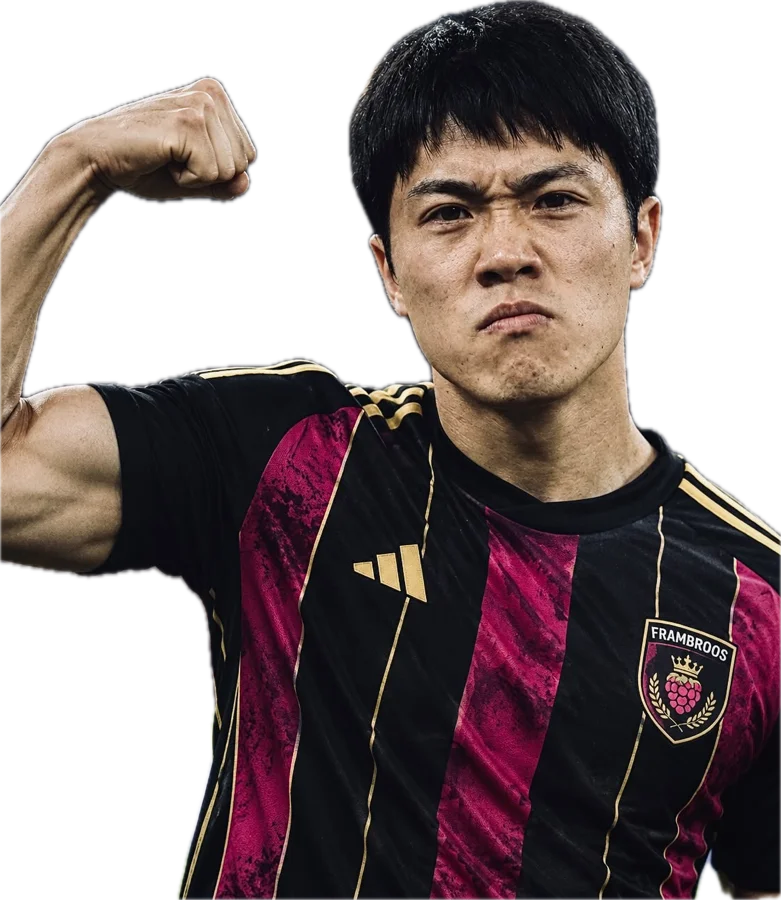
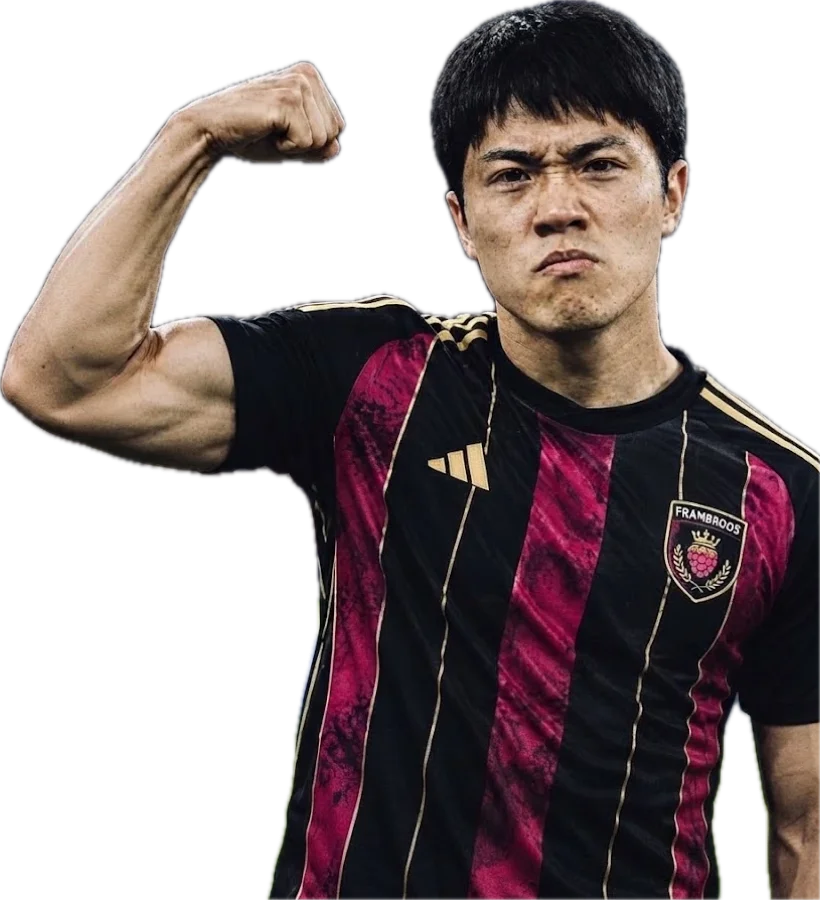
Wheatley: eigen portret en vormfoto met de hele arm; rating iets lager onder de boog; vormlabel blijft binnen de rand op kleine kaarten; overal de naam van de pro in plaats van de accountnaam

diff --git a/public/sessies.js b/public/sessies.js
@@ -37,7 +37,7 @@ function renderCards() {
         </span>
       </span>
       <span class="scard-line" aria-label="Uitslagen op volgorde">${ms.map(m => `<span class="tl-item" title="${esc(m.opponent.name)}"><span class="tl-dot ${m.result}">${letter(m.result)}</span>${kitShirt(m.opponent.kit, m.opponent.name)}<b>${m.goals}-${m.goalsAgainst}</b></span>`).join('')}</span>
-      ${mvp ? `<span class="scard-mvp"><span class="mvp-avatar">${photo ? `<img src="${photo}" alt="">` : PERSON}</span><span class="mvp-who"><small>Speler van de sessie</small><b>${esc(mvp.n)}</b></span><span class="mvp-stats"><b>${f2(mvp.v)}</b><small>${mvp.g} G · ${mvp.a} A${mvp.mom ? ` · ${mvp.mom}× MOTM` : ''}</small></span></span>` : ''}
+      ${mvp ? `<span class="scard-mvp"><span class="mvp-avatar">${photo ? `<img src="${photo}" alt="">` : PERSON}</span><span class="mvp-who"><small>Speler van de sessie</small><b>${esc(proName(mvp.n))}</b></span><span class="mvp-stats"><b>${f2(mvp.v)}</b><small>${mvp.g} G · ${mvp.a} A${mvp.mom ? ` · ${mvp.mom}× MOTM` : ''}</small></span></span>` : ''}
     </a>`;
   }).join('');
 }
@@ -56,7 +56,7 @@ const QUOTE = {
   toeval: 'Toeval is logisch.',
 };
 function anecdote(ms, sm, prow) {
-  const c = [], nm = n => `<b>${esc(n)}</b>`, res = ms.map(m => m.result), n = ms.length;
+  const c = [], nm = n => `<b>${esc(proName(n))}</b>`, res = ms.map(m => m.result), n = ms.length;
   const pot = i => ['de eerste pot', 'de tweede pot', 'de derde pot', 'de vierde pot', 'de vijfde pot'][i] || `pot ${i + 1}`;
   // Spelersmomenten
   for (const m of ms) for (const p of m.players) if (p.goals >= 3) c.push({ w: 10 + p.goals, text: `${nm(p.name)} schoot er tegen ${esc(m.opponent.name)} in ${numWord(p.goals)} keer in${m.result === 'W' ? '' : ', en toch werd het niets'}.`, q: 'schieten' });
@@ -123,7 +123,7 @@ function render() {
   const own = DATA.snapshot?.skillRating;
   const names = [...new Set(ms.flatMap(m => m.players.map(p => p.name)))];
   $('#s-title').textContent = `${cap(longDate(ms[0].ts))} · ${typeLabel(ms)}`;
-  $('#s-meta').textContent = `${fmtTime(ms[0].ts)} tot ${fmtTime(ms[ms.length - 1].ts)} · ${names.length} spelers: ${names.join(', ')}`;
+  $('#s-meta').textContent = `${fmtTime(ms[0].ts)} tot ${fmtTime(ms[ms.length - 1].ts)} · ${names.length} spelers: ${names.map(proName).join(', ')}`;
 
   const opp = avg(ms.map(m => m.opponent.skillRating).filter(Boolean));
   // Badges: deze avond tegenover normaal (alle andere wedstrijden).
@@ -159,10 +159,10 @@ function render() {
   $('#s-share').onclick = () => shareSession(ms, sm, prow, $('#s-summary').innerText);
   // Top drie als kaarten, de beste vooraan.
   const top = prow.filter(r => r.rH !== null).slice(0, 3);
-  $('#s-podium').innerHTML = top.map((r, i) => `<a class="podium-card p${i + 1}" href="spelers.html#${encodeURIComponent(r.name)}" title="${esc(r.name)}: rating ${f2(r.rH)} deze avond">
+  $('#s-podium').innerHTML = top.map((r, i) => `<a class="podium-card p${i + 1}" href="spelers.html#${encodeURIComponent(r.name)}" title="${esc(proName(r.name))}: rating ${f2(r.rH)} deze avond">
       <span class="podium-rank">${i + 1}</span><span class="fut-mini">${PlayerCard.html(r.name)}</span><span class="podium-rating">${f2(r.rH)}${r.mom ? ' <span class="crown" title="Man of the match">♛</span>' : ''}</span></a>`).join('');
   $('#s-players').innerHTML = `<div class="pcards">${prow.map(r => `<a class="pcard" href="spelers.html#${encodeURIComponent(r.name)}">
-    <div class="pcard-head"><span class="pcard-name">${esc(r.name)}${r.mom ? ' <span class="crown" title="Man of the match">♛</span>' : ''}</span><span class="pcard-rating">${f2(r.rH)}</span></div>
+    <div class="pcard-head"><span class="pcard-name">${esc(proName(r.name))}${r.mom ? ' <span class="crown" title="Man of the match">♛</span>' : ''}</span><span class="pcard-rating">${f2(r.rH)}</span></div>
     <div class="pcard-sub">${r.n} ${r.n === 1 ? 'wedstrijd' : 'wedstrijden'} · normaal ${f2(r.rT)} ${r.d === null ? '' : residCell(r.d)}</div>
     <div class="pcard-stats"><span><b>${r.g}</b> goals</span><span><b>${r.a}</b> assists</span><span><b>${r.mom}</b> MOTM</span></div></a>`).join('')}</div>`;
 }
@@ -199,8 +199,8 @@ async function shareSession(ms, sm, prow, summaryText) {
   // uitblinker en betrokken bij goals
   const best = prow[0], inv = [...prow].sort((a, b) => (b.g + b.a) - (a.g + a.a))[0];
   const box = (bx, label, name, val) => { g.fillStyle = 'rgba(255,255,255,0.06)'; g.beginPath(); g.roundRect(bx, 512, 452, 200, 28); g.fill(); g.fillStyle = accent; font(24, 600); g.fillText(label.toUpperCase(), bx + 32, 562); g.fillStyle = ink; font(40, 700); g.fillText(name, bx + 32, 622); mono(56, 500); g.textAlign = 'right'; g.fillText(val, bx + 420, 688); g.textAlign = 'left'; };
-  if (best) box(72, 'Uitblinker', best.name, f2(best.rH));
-  if (inv) box(556, 'Goals + assists', inv.name, String(inv.g + inv.a));
+  if (best) box(72, 'Uitblinker', proName(best.name), f2(best.rH));
+  if (inv) box(556, 'Goals + assists', proName(inv.name), String(inv.g + inv.a));
   // samenvatting (eerste twee zinnen)
   g.fillStyle = ink; font(32, 400);
   const sentences = summaryText.replace(/\s+/g, ' ').match(/[^.!?]+[.!?]/g) || [summaryText];

diff --git a/public/news.js b/public/news.js
@@ -20,28 +20,28 @@ function articleFor(sess, latest) {
   // Topvorm: wie die avond de blauwe kaart kreeg en hem daarvoor niet had.
   const top = names.map(n => ({ n, now: PlayerCard.tierOf(rowsOf(upTo, n)), was: PlayerCard.tierOf(rowsOf(before, n)) }))
     .filter(x => x.now.tier === 'top' && x.was.tier !== 'top').sort((a, b) => b.now.level - a.now.level);
-  if (top.length) c.push({ tag: 'Topvorm', title: `${joinAnd(top.map(x => esc(x.n)))} in topvorm`,
-    body: `${joinAnd(top.map(x => `${esc(x.n)} ${f2(x.now.level)}`))} gemiddeld over de laatste vijf wedstrijden, met minstens drie zeges.`,
+  if (top.length) c.push({ tag: 'Topvorm', title: `${joinAnd(top.map(x => esc(proName(x.n))))} in topvorm`,
+    body: `${joinAnd(top.map(x => `${esc(proName(x.n))} ${f2(x.now.level)}`))} gemiddeld over de laatste vijf wedstrijden, met minstens drie zeges.`,
     visual: latest ? `<div class="news-cards">${top.slice(0, 3).map(x => `<span class="fut-mini">${PlayerCard.html(x.n)}</span>`).join('')}</div>` : bigNum(f1(top[0].now.level), 'gemiddeld') });
 
   // Uitschieter: de hoogste rating van de avond, vanaf 9,0.
   const peak = perfs.filter(x => x.p.rating !== null).sort((a, b) => b.p.rating - a.p.rating)[0];
   if (peak && peak.p.rating >= 9) {
     const { m, p } = peak;
-    c.push({ tag: 'Uitschieter', title: `${f1(p.rating)} voor ${esc(p.name)} tegen ${esc(m.opponent.name)}`,
+    c.push({ tag: 'Uitschieter', title: `${f1(p.rating)} voor ${esc(proName(p.name))} tegen ${esc(m.opponent.name)}`,
       body: `${capFirst(joinAnd([p.goals ? plural(p.goals, 'goal', 'goals') : '', p.assists ? plural(p.assists, 'assist', 'assists') : ''].filter(Boolean))) || 'Zonder goal of assist'}${p.mom ? ', man of the match' : ''}: de hoogste rating van de avond.`,
       visual: bigNum(f1(p.rating)) });
   }
 
   // Hattrick: drie of meer goals van één speler in één wedstrijd.
   const hat = perfs.filter(x => (x.p.goals || 0) >= 3).sort((a, b) => b.p.goals - a.p.goals)[0];
-  if (hat) c.push({ tag: 'Hattrick', title: hat.p.goals === 3 ? `Hattrick voor ${esc(hat.p.name)}` : `${capFirst(numWord(hat.p.goals))} goals voor ${esc(hat.p.name)}`,
+  if (hat) c.push({ tag: 'Hattrick', title: hat.p.goals === 3 ? `Hattrick voor ${esc(proName(hat.p.name))}` : `${capFirst(numWord(hat.p.goals))} goals voor ${esc(proName(hat.p.name))}`,
     body: `${hat.p.goals} keer raak tegen ${esc(hat.m.opponent.name)}, eindstand ${hat.m.goals}–${hat.m.goalsAgainst}.`, visual: bigNum(hat.p.goals, 'goals') });
 
   // Grote zege: winst met vier of meer verschil.
   const big = night.filter(m => m.goalDiff >= 4).sort((a, b) => b.goalDiff - a.goalDiff || b.goals - a.goals)[0];
   if (big) {
-    const scorers = big.players.filter(p => p.goals).sort((a, b) => b.goals - a.goals).map(p => `${esc(p.name)}${p.goals > 1 ? ` (${p.goals})` : ''}`);
+    const scorers = big.players.filter(p => p.goals).sort((a, b) => b.goals - a.goals).map(p => `${esc(proName(p.name))}${p.goals > 1 ? ` (${p.goals})` : ''}`);
     c.push({ tag: 'Grote zege', title: `${big.goals}–${big.goalsAgainst} tegen ${esc(big.opponent.name)}`,
       body: scorers.length ? `Doelpunten: ${joinAnd(scorers)}.` : 'De grootste zege van de avond.', visual: bigNum(`${big.goals}–${big.goalsAgainst}`) });
   }
@@ -51,7 +51,7 @@ function articleFor(sess, latest) {
     const own = rowsOf(upTo, n);
     let k = 0; while (k < own.length && (own[own.length - 1 - k].p.goals || 0) > 0) k++;
     if (k >= 3 && night.includes(own.at(-1).m)) {
-      c.push({ tag: 'Scoort op rij', title: `${esc(n)} scoort ${numWord(k)} keer op rij`,
+      c.push({ tag: 'Scoort op rij', title: `${esc(proName(n))} scoort ${numWord(k)} keer op rij`,
         body: `In elk van de laatste ${k} eigen wedstrijden minstens één goal, samen ${own.slice(-k).reduce((a, x) => a + x.p.goals, 0)}.`, visual: bigNum(`${k}×`) });
       break;
     }
@@ -64,7 +64,7 @@ function articleFor(sess, latest) {
   // Een avond met minder dan één punt per wedstrijd is zelf het nieuws; een uitblinker verandert dat niet.
   if (c.length && s.ppg >= 1) return { ...base, ...c[0], body: `${c[0].body} ${nightLine}` };
   return { ...base, tag: 'Speelavond', title: capFirst(joinAnd(parts)), visual: formDots(night, { links: false }),
-    body: `${plural(night.length, 'wedstrijd', 'wedstrijden')} op ${weekday}, doelsaldo ${signed(gd, 0)}.${best ? ` Beste speler: ${esc(best.n)} met gemiddeld ${f2(best.v)}.` : ''}` };
+    body: `${plural(night.length, 'wedstrijd', 'wedstrijden')} op ${weekday}, doelsaldo ${signed(gd, 0)}.${best ? ` Beste speler: ${esc(proName(best.n))} met gemiddeld ${f2(best.v)}.` : ''}` };
 }
 
 // Alle artikelen, nieuwste eerst: één per sessie van minstens twee wedstrijden.

diff --git a/public/common.js b/public/common.js
@@ -9,6 +9,8 @@ const fmtDateTime = ts => new Date(ts * 1000).toLocaleString('nl-NL', { day: 'nu
 const pct = (num, den) => den ? Math.round(100 * num / den) : null;
 const fmtPct = v => v === null || v === undefined ? '–' : `${v}%`;
 const esc = s => String(s ?? '').replace(/[&<>"]/g, c => ({ '&': '&amp;', '<': '&lt;', '>': '&gt;', '"': '&quot;' }[c]));
+// Naam van de pro (Terry Yaki) voor een accountnaam (Neegek): zo praat de app over spelers. Onbekend: de accountnaam.
+const proName = n => DATA?.members?.find(x => x.name === n)?.proName || n;
 
 
 // ---------- app-shell: zijmenu ----------
@@ -47,7 +49,7 @@ function fillPlayerNav() {
   const nav = $('#player-nav'); if (!nav || !DATA) return;
   const onPlayers = PAGE === 'spelers.html';
   const current = onPlayers ? decodeURIComponent(location.hash.slice(1)) || (DATA.players.includes('Neegek') ? 'Neegek' : DATA.players[0]) : null;
-  nav.innerHTML = DATA.players.map(n => `<a href="spelers.html#${encodeURIComponent(n)}" class="${n === current ? 'active' : ''}"${n === current ? ' aria-current="page"' : ''}>${esc(n)}</a>`).join('');
+  nav.innerHTML = DATA.players.map(n => `<a href="spelers.html#${encodeURIComponent(n)}" class="${n === current ? 'active' : ''}"${n === current ? ' aria-current="page"' : ''}>${esc(proName(n))}</a>`).join('');
 }
 addEventListener('hashchange', () => fillPlayerNav());
 
@@ -241,7 +243,7 @@ const summarize = list => {
   const resid = list.length ? +(list.reduce((a, m) => a + (m.resid ?? 0), 0) / list.length).toFixed(2) : null;
   return { n: list.length, W, D, L, winPct: pct(W, list.length), ppg: list.length ? +((3 * W + D) / list.length).toFixed(2) : null, resid, gf, ga, gfAvg: list.length ? +(gf / list.length).toFixed(1) : null, gaAvg: list.length ? +(ga / list.length).toFixed(1) : null };
 };
-const lineupOf = m => m.players.map(p => p.name).sort().join(' · ');
+const lineupOf = m => m.players.map(p => proName(p.name)).sort().join(' · ');
 const deltaCell = (d, unit = ' pt', digits = 0) => d === null || d === undefined ? '–' : `<span class="${d > 0.005 ? 'delta-pos' : d < -0.005 ? 'delta-neg' : ''}">${d > 0 ? '+' : ''}${(+d).toFixed(digits)}${unit}</span>`;
 const avg = xs => xs.length ? xs.reduce((x, y) => x + y, 0) / xs.length : null;
 const residCell = v => deltaCell(v, '', 2);
@@ -461,7 +463,7 @@ function matchCard(m, { own = null, player = null } = {}) {
   const str = diff === null ? '' : diff >= 250 ? 'veel sterker' : diff >= 100 ? 'sterker' : diff <= -100 ? 'zwakker' : '';
   const p = player ? m.players.find(x => x.name === player) : [...m.players].sort((x, y) => (y.rating ?? 0) - (x.rating ?? 0))[0];
   const foot = !p ? '' : player ? `<b>${p.rating ?? '–'}</b> ${p.goals} G, ${p.assists} A${p.mom ? ' · ★' : ''}`
-    : `<b>${p.rating ?? '–'}</b> ${esc(p.name)}`;
+    : `<b>${p.rating ?? '–'}</b> ${esc(proName(p.name))}`;
   const r = m.resid, badge = r === null || r === undefined ? '' : `<span class="kpi-badge ${r >= 0.5 ? 'up' : r <= -0.5 ? 'down' : ''}" title="Tov verwachting: doelsaldo tegenover wat de tegenstander deed verwachten">${signed(r, 1)}</span>`;
   return `<a class="mcard" href="wedstrijd.html?id=${m.matchId}">
     <span class="mcard-top"><span class="pill ${m.result}">${m.result === 'D' ? 'G' : m.result === 'L' ? 'V' : 'W'}</span><span class="mcard-type">${m.matchType === 'playoffMatch' ? 'playoff' : 'league'} · ${t}${m.winnerByDnf ? ' · opgave' : ''}${m.live ? ' · live' : ''}</span></span>
@@ -478,7 +480,7 @@ function matchRow(m, own) {
   const diff = m.opponent.skillRating && own ? m.opponent.skillRating - own : null;
   const str = diff === null ? '' : diff >= 250 ? 'veel sterker' : diff >= 100 ? 'sterker' : diff <= -100 ? 'zwakker' : 'gelijkwaardig';
   const best = [...m.players].filter(p => p.rating !== null).sort((x, y) => y.rating - x.rating)[0];
-  const bestHtml = best ? `<span class="mr-best-name">${esc(best.name)}${best.mom ? ' <span class="crown" title="Man of the match">♛</span>' : ''}</span><b>${f1(best.rating)}</b>` : '';
+  const bestHtml = best ? `<span class="mr-best-name">${esc(proName(best.name))}${best.mom ? ' <span class="crown" title="Man of the match">♛</span>' : ''}</span><b>${f1(best.rating)}</b>` : '';
   return `<a class="match-row" href="wedstrijd.html?id=${m.matchId}">
     <span class="mr-time">${when}</span>
     <span class="pill ${m.result}">${letter(m.result)}</span>

diff --git a/public/wedstrijd.js b/public/wedstrijd.js
@@ -38,7 +38,7 @@ function matchSummary(m) {
   const best = [...m.players].sort((a, b) => (b.rating ?? 0) - (a.rating ?? 0))[0];
   if (best) {
     const bits = [best.goals ? `${numWord(best.goals)} ${best.goals === 1 ? 'doelpunt' : 'doelpunten'}` : '', best.assists ? `${numWord(best.assists)} ${best.assists === 1 ? 'assist' : 'assists'}` : ''].filter(Boolean);
-    parts.push(`<b>${esc(best.name)}</b> was de beste man${bits.length ? `, met ${joinAnd(bits)}` : ''}${best.mom ? ', en werd man van de wedstrijd' : ''}.`);
+    parts.push(`<b>${esc(proName(best.name))}</b> was de beste man${bits.length ? `, met ${joinAnd(bits)}` : ''}${best.mom ? ', en werd man van de wedstrijd' : ''}.`);
   }
   return parts.join(' ');
 }
@@ -47,7 +47,7 @@ function pitch(players, title, link) {
   const byLine = Object.fromEntries(LINES.map(([k]) => [k, []]));
   for (const p of players) (byLine[p.pos] || byLine.midfielder).push(p);
   const chip = p => {
-    const inner = `<b>${esc(p.name)}</b><small>${esc(archName(p.archetypeId))} · ${p.rating ?? '–'}${p.mom ? ' · ★' : ''}</small>`;
+    const inner = `<b>${esc(link ? proName(p.name) : p.name)}</b><small>${esc(archName(p.archetypeId))} · ${p.rating ?? '–'}${p.mom ? ' · ★' : ''}</small>`;
     return link ? `<a class="pchip" href="spelers.html#${encodeURIComponent(p.name)}">${inner}</a>` : `<div class="pchip">${inner}</div>`;
   };
   const ai = Math.max(0, 11 - players.length);
@@ -80,7 +80,7 @@ function h2h(m) {
 // reconstrueren (docs/coach-logica.md §9a). EA geeft per speler alleen aantallen, niet bij welke goal.
 function goalChain(m) {
   if (m.goals !== 1) return '';
-  const who = f => m.players.filter(f).map(p => `<b>${esc(p.name)}</b>`);
+  const who = f => m.players.filter(f).map(p => `<b>${esc(proName(p.name))}</b>`);
   const scorer = who(p => p.goals > 0), assist = who(p => p.assists > 0), second = who(p => p.ev?.second_assists > 0);
   if (scorer.length > 1 || assist.length > 1 || second.length > 1) return '';
   const steps = [];
@@ -95,7 +95,7 @@ function goalChain(m) {
 function playerTable(el, players, link) {
   const rows = [...players].sort((a, b) => (b.rating ?? 0) - (a.rating ?? 0));
   if (!rows.length) { el.innerHTML = '<p class="empty">Geen menselijke spelers.</p>'; return; }
-  const name = { label: 'Speler', render: p => link ? `<a href="spelers.html#${encodeURIComponent(p.name)}">${esc(p.name)}</a>${p.mom ? ' ★' : ''}` : `${esc(p.name)}${p.mom ? ' ★' : ''}` };
+  const name = { label: 'Speler', render: p => link ? `<a href="spelers.html#${encodeURIComponent(p.name)}">${esc(proName(p.name))}</a>${p.mom ? ' ★' : ''}` : `${esc(p.name)}${p.mom ? ' ★' : ''}` };
   const compact = [name,
     { label: 'Rating', num: true, render: p => p.rating ?? '–' }, { label: 'Index', num: true, render: p => p.fi === null ? '–' : `<span title="Frambroos-index: 50 is gemiddeld voor de rol${fiMatchLabel(p.fi) ? ` · ${fiMatchLabel(p.fi)}` : ''}">${fiFmt(p.fi)}</span>` },
     { label: 'Goals', num: true, key: 'goals' }, { label: 'Assists', num: true, key: 'assists' },
@@ -105,7 +105,7 @@ function playerTable(el, players, link) {
   el.innerHTML = '<div class="pt-compact"></div><details class="all-stats"><summary>Alle cijfers</summary><div class="pt-full"></div></details>';
   table(el.querySelector('.pt-compact'), compact, rows);
   table(el.querySelector('.pt-full'), [
-    { label: 'Speler', render: p => link ? `<a href="spelers.html#${encodeURIComponent(p.name)}">${esc(p.name)}</a>${p.mom ? ' ★' : ''}` : `${esc(p.name)}${p.mom ? ' ★' : ''}` },
+    { label: 'Speler', render: p => link ? `<a href="spelers.html#${encodeURIComponent(p.name)}">${esc(proName(p.name))}</a>${p.mom ? ' ★' : ''}` : `${esc(p.name)}${p.mom ? ' ★' : ''}` },
     { label: 'Positie', render: p => POS_NL[p.pos] || p.pos }, { label: 'Build', render: p => esc(archName(p.archetypeId)) },
     { label: 'Rating', num: true, render: p => p.rating ?? '–' }, { label: 'Goals', num: true, key: 'goals' }, { label: 'Assists', num: true, key: 'assists' }, { label: '2e assist', num: true, render: p => p.ev ? (p.ev.second_assists || 0) : '–' },
     { label: 'Schoten', num: true, key: 'shots' }, { label: 'Passes', num: true, render: p => `${p.passesMade}/${p.passAttempts}` },

diff --git a/public/spelers.js b/public/spelers.js
@@ -87,7 +87,7 @@ function playerSummary(name, rows, career, sw) {
   };
   const s = sw.sRaw.filter(x => GOOD[x.key]), w = sw.wRaw.filter(x => BAD[x.key]);
   const parts = [];
-  const nm = `<b>${esc(name)}</b>`;
+  const nm = `<b>${esc(proName(name))}</b>`;
   // 1. Rol en kenmerk
   const traits = s.slice(0, 2).map(x => GOOD[x.key]).filter((v, i, a) => a.indexOf(v) === i);
   const flaws = w.slice(0, 2).map(x => BAD[x.key]).filter((v, i, a) => a.indexOf(v) === i);
@@ -143,7 +143,7 @@ function renderSessionsTab(name) {
   $('#ps-title').textContent = `${name} per sessie`;
   const best = [...items].filter(i => i.d !== null).sort((a, b) => b.d - a.d)[0], worst = [...items].filter(i => i.d !== null).sort((a, b) => a.d - b.d)[0];
   const trend = items.length >= 3 ? items[items.length - 1].r - avg(items.slice(0, -1).map(i => i.r)) : null;
-  const parts = [`<b>${esc(name)}</b> speelde ${numWord(items.length)} ${items.length === 1 ? 'sessie' : 'sessies'} mee.`];
+  const parts = [`<b>${esc(proName(name))}</b> speelde ${numWord(items.length)} ${items.length === 1 ? 'sessie' : 'sessies'} mee.`];
   if (best && best !== worst && best.d >= 0.3) parts.push(`De beste avond was ${pDay(best.s.matches[0].ts).toLowerCase()}${best.g + best.a ? `, met ${joinAnd([best.g ? `${numWord(best.g)} ${best.g === 1 ? 'goal' : 'goals'}` : '', best.a ? `${numWord(best.a)} ${best.a === 1 ? 'assist' : 'assists'}` : ''].filter(Boolean))}` : ''}.`);
   if (worst && best !== worst && worst.d <= -0.3) parts.push(`De minste was ${pDay(worst.s.matches[0].ts).toLowerCase()}.`);
   if (trend !== null) parts.push(Math.abs(trend) < 0.3 ? 'De laatste sessie lag op het normale niveau.' : trend > 0 ? 'De laatste sessie was beter dan de avonden daarvoor.' : 'De laatste sessie was minder dan de avonden daarvoor.');
@@ -170,7 +170,7 @@ function renderLastTab(name) {
   const notes = others.length >= 3 ? notesFor([last], others) : [];
   const bits = [p.goals ? `${numWord(p.goals)} ${p.goals === 1 ? 'doelpunt' : 'doelpunten'}` : '', p.assists ? `${numWord(p.assists)} ${p.assists === 1 ? 'assist' : 'assists'}` : ''].filter(Boolean);
   const level = d === null ? '' : d >= 0.5 ? 'een van de betere wedstrijden' : d <= -0.5 ? 'een mindere wedstrijd' : 'een wedstrijd op het normale niveau';
-  const parts = [`In de laatste wedstrijd, tegen ${esc(m.opponent.name)}, speelde <b>${esc(name)}</b> ${level}${bits.length ? `, met ${joinAnd(bits)}` : ''}${p.mom ? ', en was man van de wedstrijd' : ''}.`];
+  const parts = [`In de laatste wedstrijd, tegen ${esc(m.opponent.name)}, speelde <b>${esc(proName(name))}</b> ${level}${bits.length ? `, met ${joinAnd(bits)}` : ''}${p.mom ? ', en was man van de wedstrijd' : ''}.`];
   const good = notes.filter(n => n.better).slice(0, 2).map(n => n.text), bad = notes.filter(n => n.better === false).slice(0, 2).map(n => n.text);
   if (good.length && bad.length) parts.push(`Opvallend: ${joinAnd(good)} dan normaal, maar ook ${joinAnd(bad)}.`);
   else if (good.length) parts.push(`Opvallend: ${joinAnd(good)} dan normaal.`);
@@ -219,7 +219,7 @@ function renderPlayer() {
   const ms = filtered(), players = DATA.players;
   if (!selected || !players.includes(selected)) selected = players.includes('Neegek') ? 'Neegek' : players[0];
   location.hash = encodeURIComponent(selected);
-  $('#chips').innerHTML = players.map(p => `<button type="button" class="chip ${p === selected ? 'active' : ''}" data-p="${esc(p)}">${esc(p)}</button>`).join('');
+  $('#chips').innerHTML = players.map(p => `<button type="button" class="chip ${p === selected ? 'active' : ''}" data-p="${esc(p)}">${esc(proName(p))}</button>`).join('');
   for (const b of $('#chips').querySelectorAll('.chip')) b.addEventListener('click', () => { selected = b.dataset.p; renderPlayer(); });
 
   const rows = rowsFor(ms, selected), career = DATA.members.find(x => x.name === selected);
@@ -265,7 +265,7 @@ function renderPlayer() {
   ].join('') : '';
   renderContext(selected, ms);
   window.PlayerCard.render(selected);
-  document.title = `${selected} · Frambroos Coach`;
+  document.title = `${proName(selected)} · Frambroos Coach`;
   renderSessionsTab(selected);
   renderLastTab(selected);
   window.BuildTab.show(selected);

diff --git a/public/clubhouse.js b/public/clubhouse.js
@@ -190,7 +190,7 @@ const rankRows = (R, totals) => totals.filter(t => t.n >= 3).map(t => ({ t, v: R
 function renderRanking(totals) {
   $('#rank-cards').innerHTML = RANKS.map(R => { const rows = rankRows(R, totals); return `<button type="button" class="rank-card" data-key="${R.key}" aria-haspopup="dialog">
       <span class="rank-card-label">${R.label}<span class="rank-more" aria-hidden="true">i</span></span>
-      <ol>${rows.map((x, i) => `<li><span>${i + 1}</span><span>${esc(x.t.name)}</span><b>${R.main(x.t)}</b></li>`).join('') || '<li class="empty">Nog te weinig wedstrijden.</li>'}</ol></button>`; }).join('');
+      <ol>${rows.map((x, i) => `<li><span>${i + 1}</span><span>${esc(proName(x.t.name))}</span><b>${R.main(x.t)}</b></li>`).join('') || '<li class="empty">Nog te weinig wedstrijden.</li>'}</ol></button>`; }).join('');
   for (const b of $('#rank-cards').querySelectorAll('.rank-card')) b.addEventListener('click', () => openRank(RANKS.find(R => R.key === b.dataset.key), totals));
 }
 
@@ -200,7 +200,7 @@ function openRank(R, totals) {
     <h3>Waar het op gebaseerd is</h3><p>${R.about}</p>
     <h3>Wie meetelt</h3><p>${R.who} ${BASE}</p>
     <h3>De hele lijst</h3>
-    <ol class="rd-list">${rows.map((x, i) => `<li><span>${i + 1}</span><span>${esc(x.t.name)}</span><b>${R.main(x.t)}</b><small>${esc(R.sub(x.t))}</small></li>`).join('') || '<li class="empty">Nog te weinig wedstrijden.</li>'}</ol>`;
+    <ol class="rd-list">${rows.map((x, i) => `<li><span>${i + 1}</span><span>${esc(proName(x.t.name))}</span><b>${R.main(x.t)}</b><small>${esc(R.sub(x.t))}</small></li>`).join('') || '<li class="empty">Nog te weinig wedstrijden.</li>'}</ol>`;
   d.showModal();
 }
 
@@ -220,7 +220,7 @@ function render() {
   const members = DATA.members.map(m => ({ m, t: PlayerCard.tier(m.name) }))
     .sort((a, b) => PlayerCard.TIER_RANK[b.t.tier] - PlayerCard.TIER_RANK[a.t.tier] || (b.t.level ?? 0) - (a.t.level ?? 0) || (b.m.gamesPlayed || 0) - (a.m.gamesPlayed || 0));
   $('#members').innerHTML = members.map(({ m }) => `<a class="member" href="spelers.html#${encodeURIComponent(m.name)}">
-      <span class="fut-mini">${PlayerCard.html(m.name)}</span><span class="member-tag">${esc(m.name)}</span></a>`).join('');
+      <span class="fut-mini">${PlayerCard.html(m.name)}</span><span class="member-tag">${esc(proName(m.name))}</span></a>`).join('');
 }
 
 // Uitlegscherm van een ranglijst: sluiten met de knop, Esc of een tik naast het scherm.

diff --git a/public/style.css b/public/style.css
@@ -254,7 +254,7 @@ td.split small, .split small { color: var(--muted); }
 .fut-tier { justify-self: center; margin-top: 12px; font-size: 10px; font-weight: 800; letter-spacing: 0.22em; text-transform: uppercase; padding: 3px 10px; border-radius: 999px; border: 1px solid var(--t-accent); color: var(--t-accent); }
 /* Bovenste helft: overall, positie en logo links, foto rechts. Onderste helft: naam en cijfers in twee kolommen. */
 .fut-top { display: grid; grid-template-columns: 64px 1fr; min-height: 0; }
-.fut-ovr { display: grid; justify-items: center; align-content: start; gap: 2px; padding-top: 6px; }
+.fut-ovr { display: grid; justify-items: center; align-content: start; gap: 2px; padding-top: 18px; } /* de boog bovenin loopt links lager; de rating moet eronder blijven */
 .fut-ovr b { font-size: 40px; font-weight: 800; line-height: 1; letter-spacing: -0.04em; }
 .fut-archicon { display: grid; place-items: center; width: 34px; height: 34px; color: var(--t-ink); margin-top: 4px; }
 .fut-archicon .arch-icon { width: 32px; height: 32px; }
@@ -626,11 +626,11 @@ button.rank-card:hover .rank-more { color: var(--brand-text); border-color: var(
 /* Kleine kaart (ledenrij, top drie van een sessie): dezelfde kaart geschaald met --s; cijfers en labels iets groter. */
 .fut-mini { display: block; width: calc(300px * var(--s, 0.56)); height: calc(430px * var(--s, 0.56)); }
 .fut-mini .fut { transform: scale(var(--s, 0.56)); transform-origin: top left; transition: transform .15s ease; }
-.fut-mini .fut-name { font-size: 27px; }
+.fut-mini .fut-name { font-size: 26px; }
 .fut-mini .fut-name.long { font-size: 22px; }
-.fut-mini .fut-col b { font-size: 22px; }
+.fut-mini .fut-col b { font-size: 20px; }
 .fut-mini .fut-col span { font-size: 15px; letter-spacing: 0.04em; }
-.fut-mini .fut-tier { font-size: 13px; }
+.fut-mini .fut-tier { font-size: 12px; margin-top: 6px; padding: 2px 9px; }
 .member:hover .fut { transform: scale(var(--s, 0.56)) translateY(-6px); }
 /* Top drie van een sessie: waaier, de beste vooraan. */
 .podium { position: relative; --s: 0.5; --step: 112px; height: calc(430px * var(--s) + 52px); width: calc(300px * var(--s) + 2 * var(--step)); max-width: 100%; }

diff --git a/public/builds.js b/public/builds.js
@@ -436,8 +436,8 @@ function renderAdvice() {
   const ctx = ballContext(res, prof);
   const riskStyle = ctx.risk ? 'speelt met veel risico aan de bal' : ctx.key === 'rustpunt' || ctx.key === 'opZeker' ? 'speelt veilig en houdt de bal goed in de ploeg' : rel(res.fwdShare) >= 0.1 ? 'zoekt vaak de pass vooruit' : 'speelt een gebalanceerde rol';
   const isLast = mainBuild === lastArchetype(name);
-  parts.push(isLast ? `<b>${esc(name)}</b> speelt nu als ${archName(mainBuild)}, met als taak ${prof.task}.` : `Dit advies bekijkt <b>${esc(name)}</b> als ${archName(mainBuild)}, niet de laatst gespeelde build; de taak is dan ${prof.task}.`);
-  parts.push(`${esc(name)} ${riskStyle}.`);
+  parts.push(isLast ? `<b>${esc(proName(name))}</b> speelt nu als ${archName(mainBuild)}, met als taak ${prof.task}.` : `Dit advies bekijkt <b>${esc(proName(name))}</b> als ${archName(mainBuild)}, niet de laatst gespeelde build; de taak is dan ${prof.task}.`);
+  parts.push(`${esc(proName(name))} ${riskStyle}.`);
   if (T.length) parts.push(`De grootste winst zit in ${joinAnd(T.slice(0, 2).map(t => t.short))}${T[0].means[0].includes('betaalt zich') || T[0].means[0].includes('afweging') ? ', al is een deel daarvan de prijs van een bewuste speelstijl' : ''}.`);
   if (strengths.length) parts.push(`Om op te bouwen: ${joinAnd(strengths.slice(0, 2).map(x => x[0].toLowerCase()))}.`);
   if (behaviour.length) parts.push(`Zonder extra punten valt er winst te halen in het positiespel: ${behaviour[0].title.toLowerCase()}.`);

diff --git a/CLAUDE.md b/CLAUDE.md
@@ -69,7 +69,9 @@ alleen in Cloudflare.
   zijn meet EA niet; "geen goede optie" is de benadering en heet *lastige balmomenten*.
 - Advies en samenvattingen: volg coach-logica §1, §8 en §9. Kort gezegd: verder kijken dan één cijfer, twee richtingen,
   build bepaalt wat goed is, iedereen dezelfde opbouw, samenvattingen kwalitatief in drie of vier zinnen.
-- Over spelers geen *hij* of *zij*.
+- Over spelers geen *hij* of *zij*. Waar de app over onze spelers praat of ze noemt (samenvattingen, nieuws, ranglijsten,
+  menu, knoppen), staat de **naam van de pro** (Terry Yaki), niet de accountnaam (Neegek): `proName(naam)` uit
+  `public/common.js`. Links en hashes houden de accountnaam; tegenstanders houden hun EA-naam.
 - Attribuutnamen in het Engels zoals in het spel (Ball Control, Short Passing, ...); de rest van de app in het Nederlands.
 - Stijl: donker thuistenue (standaard) en licht uittenue; tokens staan bovenaan `public/style.css`. Nieuwe kleuren eerst
   op contrast controleren: tekst ≥ 4,5:1, grafische elementen ≥ 3:1. Datakleuren (winst blauw, verlies rood) niet aanpassen.

diff --git a/docs/coach-logica.md b/docs/coach-logica.md
@@ -254,7 +254,8 @@ Daarnaast *Positiespel en keuzes* en *Al sterk*.
 
 ## 9. Schrijfregels
 
-- Nederlands. Over spelers geen *hij* of *zij*: gebruik de naam, *deze speler* of *je*.
+- Nederlands. Over spelers geen *hij* of *zij*: gebruik de naam, *deze speler* of *je*. De naam is die van de pro
+  (Terry Yaki, Petra Selie), niet de accountnaam; dat houdt de roleplay heel (sinds 27 oktober 2026).
 - Samenvattingen zijn **één korte alinea van drie of vier zinnen** die vertelt wat er gebeurde, **zonder cijfers op te
   lezen**. De cijfers staan eronder. Kleine aantallen in woorden ("twee assists").
 - In het data-deel van advies wél cijfers, altijd met het positiegemiddelde erbij.
